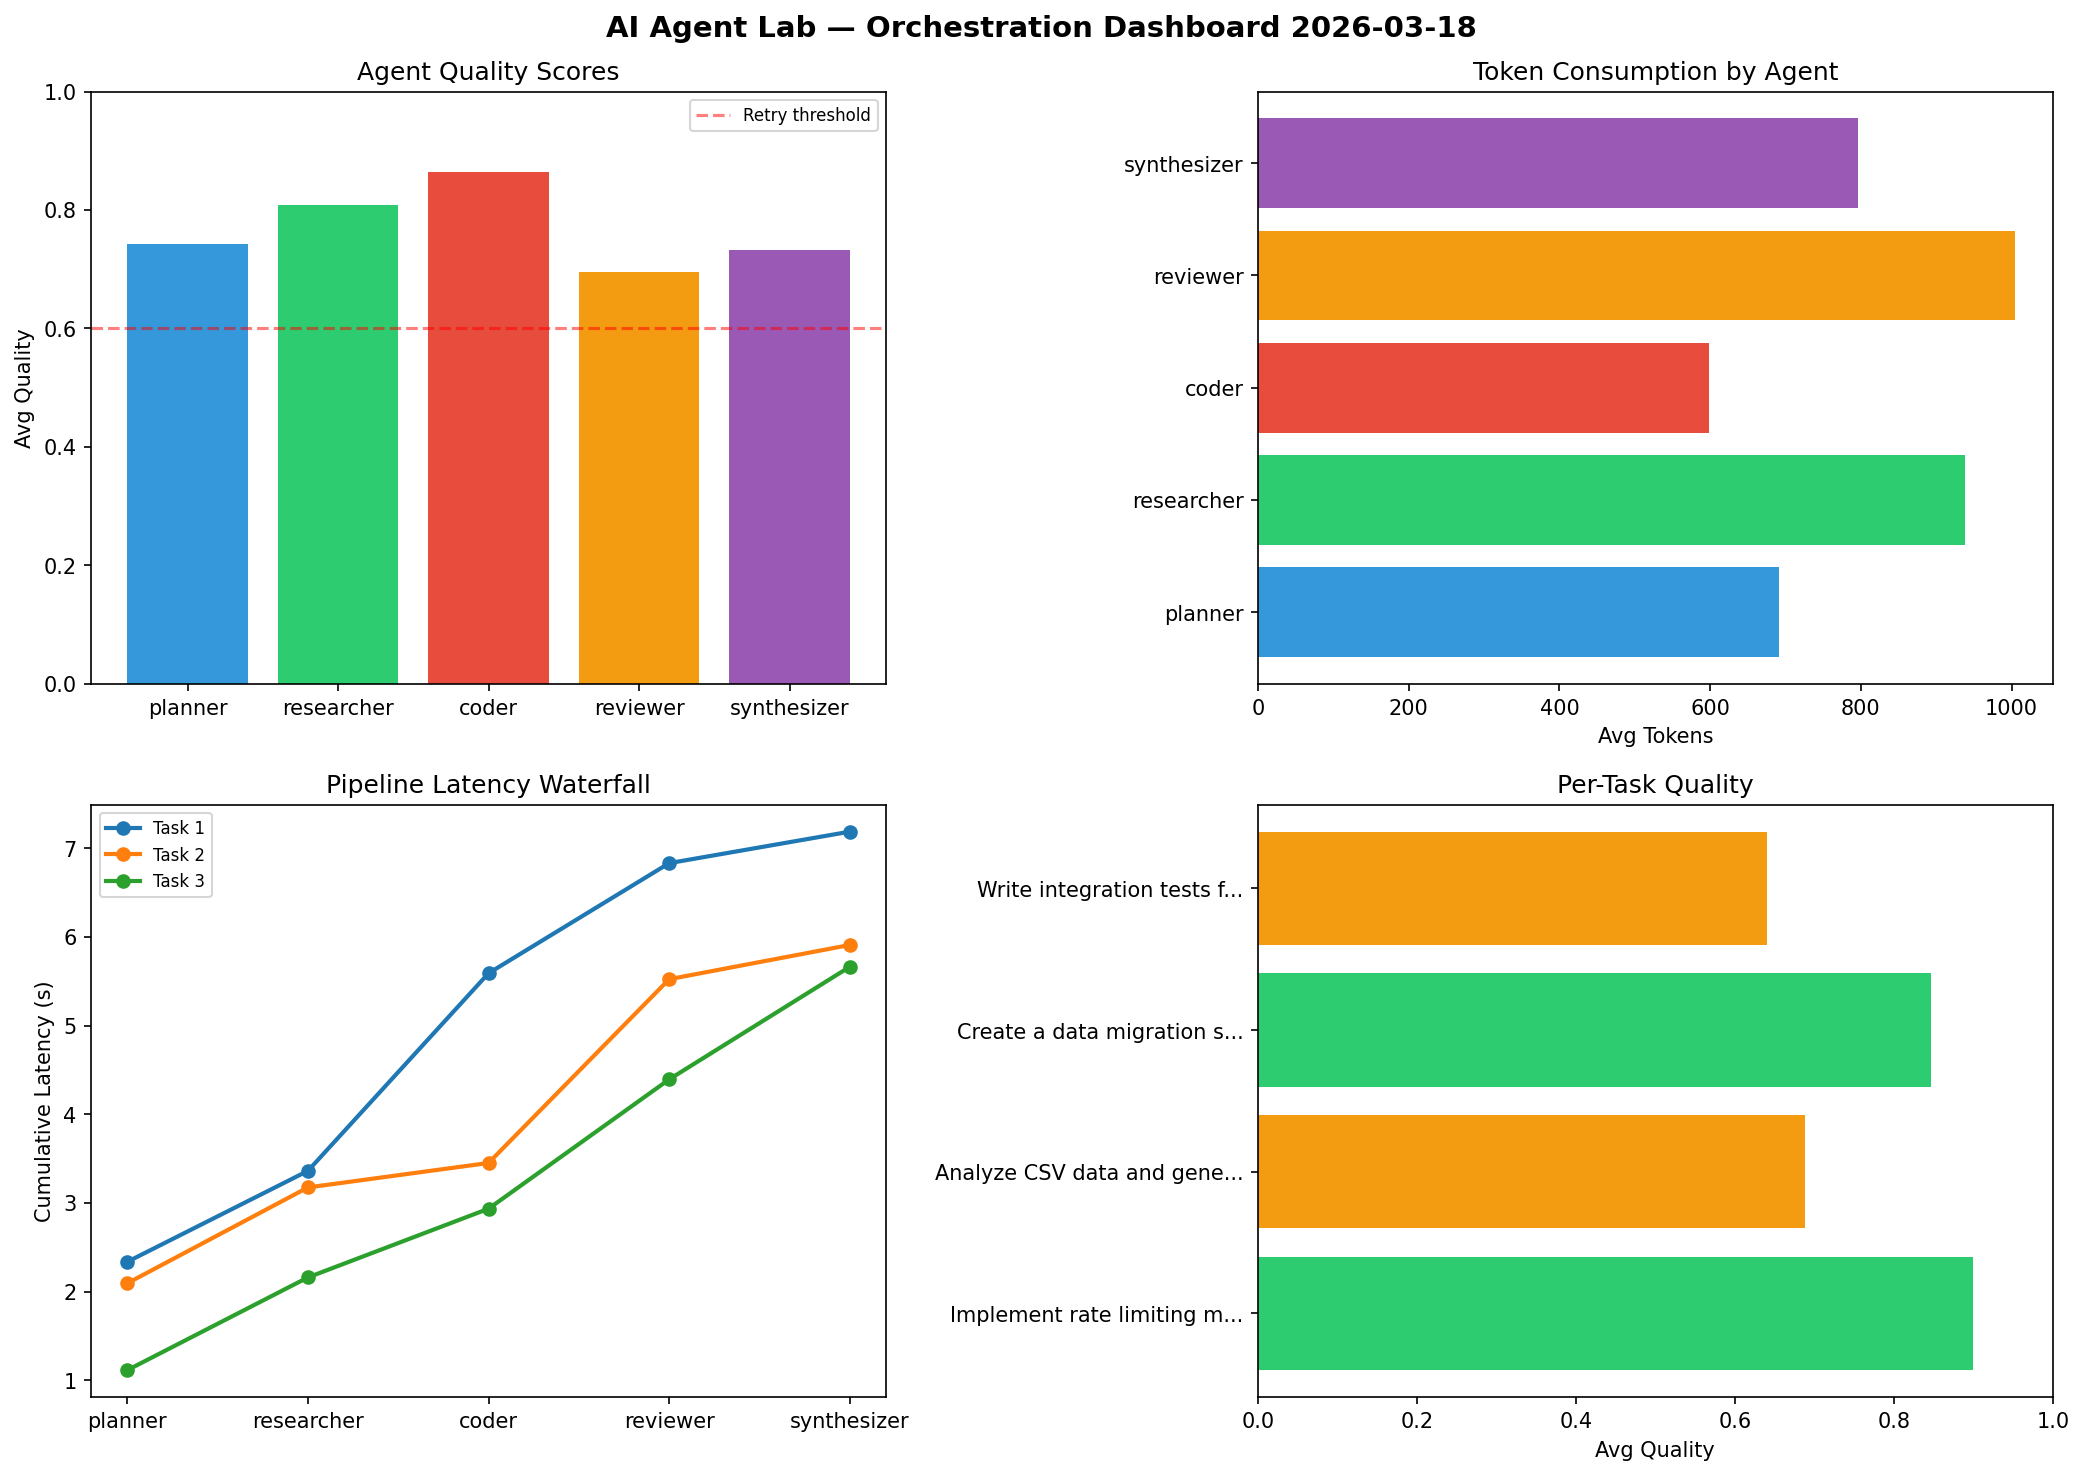
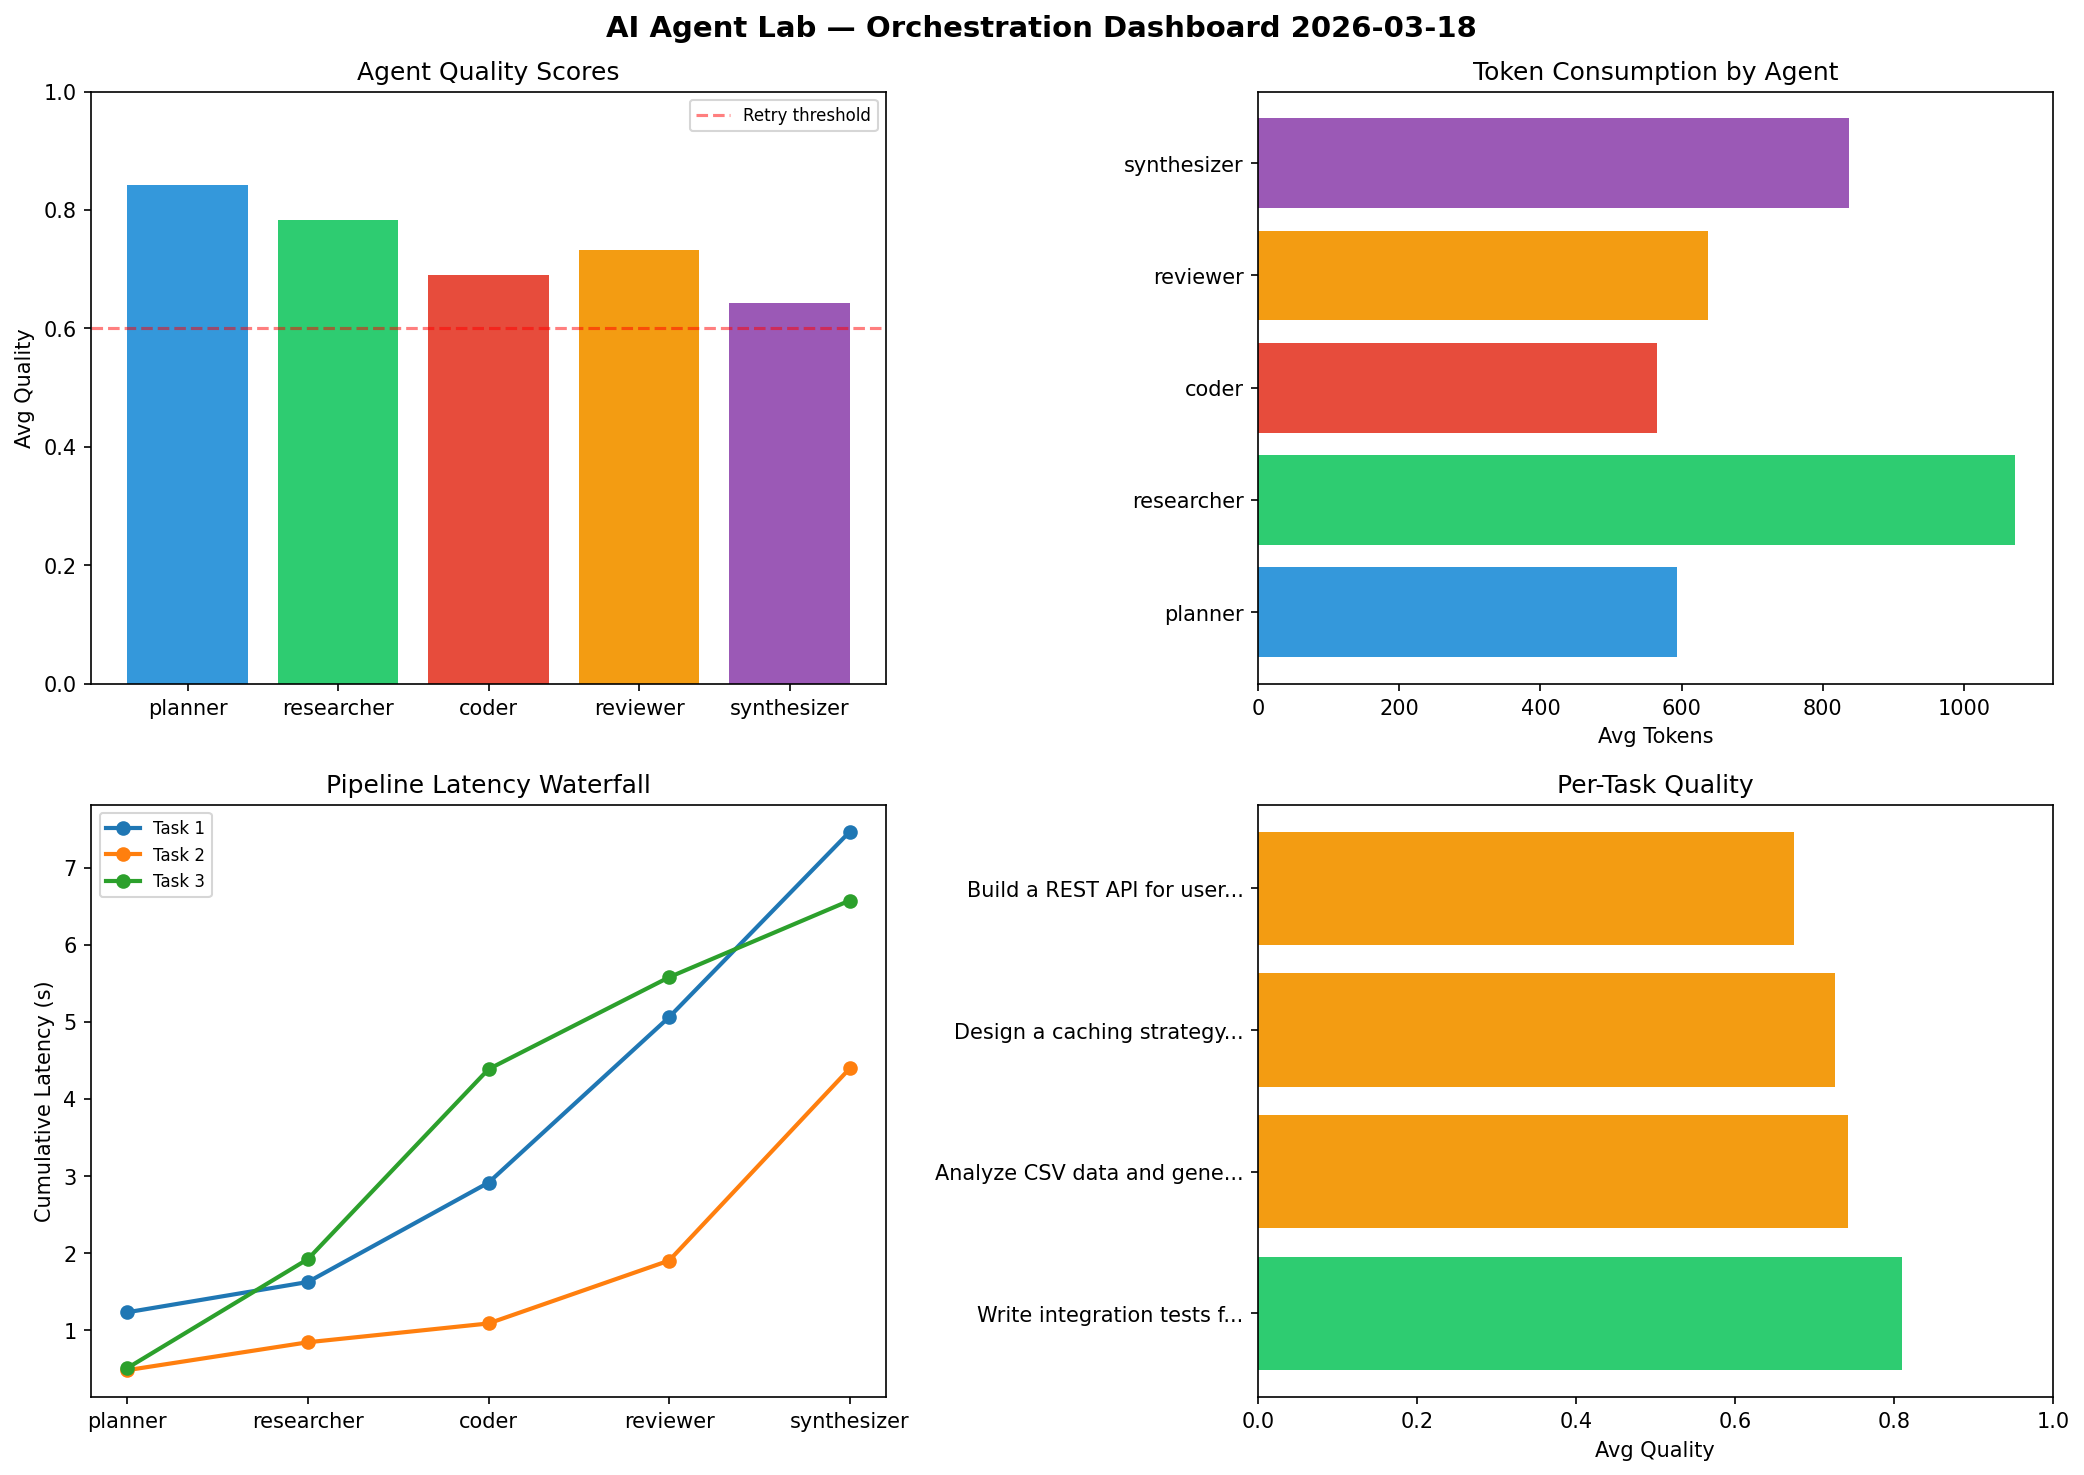
ai-agent-lab: orchestration run 2026-03-18T15:40

diff --git a/logs/2026-03-18.md b/logs/2026-03-18.md
@@ -1,6 +1,6 @@
 # AI Agent Lab — Orchestration Report 2026-03-18
 
-**Run ID:** `c85fedc3ca` | **Tasks:** 4 | **Avg Quality:** 0.769
+**Run ID:** `a62d2e00d7` | **Tasks:** 4 | **Avg Quality:** 0.738
 
 ![Dashboard](2026-03-18_dashboard.png)
 
@@ -8,52 +8,52 @@
 
 | Metric | Value |
 |--------|-------|
-| avg_latency | 6.602 |
-| total_tokens | 16121 |
-| avg_quality | 0.769 |
+| avg_latency | 5.872 |
+| total_tokens | 14822 |
+| avg_quality | 0.738 |
 
 ## Delta vs Yesterday
 
 | Metric | Today | Yesterday | Change |
 |--------|-------|-----------|--------|
-| avg_latency | 6.602 | 6.124 | 📈 7.8% |
-| total_tokens | 16121 | 15892 | 📈 1.4% |
-| avg_quality | 0.769 | 0.77 | 📉 -0.1% |
+| avg_latency | 5.872 | 6.124 | 📉 -4.1% |
+| total_tokens | 14822 | 15892 | 📉 -6.7% |
+| avg_quality | 0.738 | 0.77 | 📉 -4.2% |
 
 ## Pipeline Results
-
-### Implement rate limiting middleware
-| Agent | Quality | Latency | Tokens | Status |
-|-------|---------|---------|--------|--------|
-| planner | 0.913 | 2.335s | 594 | success |
-| researcher | 0.856 | 1.026s | 633 | success |
-| coder | 0.988 | 2.229s | 932 | success |
-| reviewer | 0.752 | 1.242s | 1163 | success |
-| synthesizer | 0.989 | 0.355s | 346 | success |
-
-### Analyze CSV data and generate statistical summary
-| Agent | Quality | Latency | Tokens | Status |
-|-------|---------|---------|--------|--------|
-| planner | 0.593 | 2.093s | 371 | needs_retry |
-| researcher | 0.723 | 1.081s | 1221 | success |
-| coder | 0.859 | 0.276s | 344 | success |
-| reviewer | 0.764 | 2.073s | 630 | success |
-| synthesizer | 0.502 | 0.386s | 917 | needs_retry |
-
-### Create a data migration script for schema v2
-| Agent | Quality | Latency | Tokens | Status |
-|-------|---------|---------|--------|--------|
-| planner | 0.931 | 1.113s | 1039 | success |
-| researcher | 0.983 | 1.046s | 1155 | success |
-| coder | 0.931 | 0.775s | 805 | success |
-| reviewer | 0.583 | 1.459s | 1029 | needs_retry |
-| synthesizer | 0.806 | 1.27s | 993 | success |
 
 ### Write integration tests for payment processing module
 | Agent | Quality | Latency | Tokens | Status |
 |-------|---------|---------|--------|--------|
-| planner | 0.531 | 2.146s | 764 | needs_retry |
-| researcher | 0.674 | 0.512s | 744 | success |
-| coder | 0.68 | 2.084s | 314 | success |
-| reviewer | 0.683 | 0.711s | 1196 | success |
-| synthesizer | 0.635 | 2.197s | 931 | success |
+| planner | 0.936 | 1.233s | 467 | success |
+| researcher | 0.864 | 0.393s | 1232 | success |
+| coder | 0.502 | 1.289s | 572 | needs_retry |
+| reviewer | 0.986 | 2.147s | 349 | success |
+| synthesizer | 0.764 | 2.406s | 981 | success |
+
+### Analyze CSV data and generate statistical summary
+| Agent | Quality | Latency | Tokens | Status |
+|-------|---------|---------|--------|--------|
+| planner | 0.727 | 0.482s | 285 | success |
+| researcher | 0.903 | 0.362s | 847 | success |
+| coder | 0.631 | 0.244s | 502 | success |
+| reviewer | 0.82 | 0.816s | 880 | success |
+| synthesizer | 0.629 | 2.493s | 719 | success |
+
+### Design a caching strategy for high-traffic endpoints
+| Agent | Quality | Latency | Tokens | Status |
+|-------|---------|---------|--------|--------|
+| planner | 0.909 | 0.509s | 1180 | success |
+| researcher | 0.79 | 1.414s | 1034 | success |
+| coder | 0.676 | 2.464s | 696 | success |
+| reviewer | 0.583 | 1.193s | 662 | needs_retry |
+| synthesizer | 0.671 | 0.995s | 624 | success |
+
+### Build a REST API for user authentication
+| Agent | Quality | Latency | Tokens | Status |
+|-------|---------|---------|--------|--------|
+| planner | 0.796 | 0.669s | 444 | success |
+| researcher | 0.577 | 2.133s | 1175 | needs_retry |
+| coder | 0.954 | 1.022s | 491 | success |
+| reviewer | 0.539 | 0.571s | 657 | needs_retry |
+| synthesizer | 0.506 | 0.651s | 1025 | needs_retry |
